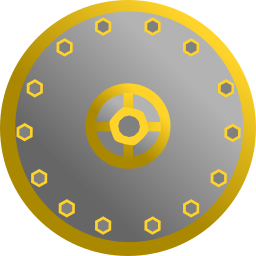
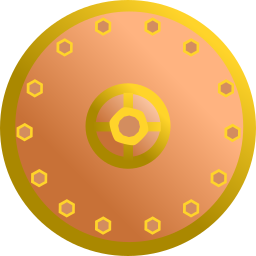
(JustWannaLive) copper textures instead of iron ones

diff --git a/main.py b/main.py
@@ -28,7 +28,7 @@ class RoctorioGameThread:
     self.app.game.step()
     step_end = time.time()
     
-    sps = 1.0 / max(step_end - step_start, 0.00001) # simulation steps per second
+    sps = 1.0 / max(step_end - step_start, 0.0001) # simulation steps per second
     
     self.app.root.ids.tps_meter.text = 'TPS: %.3f\nSPS: %.3f' % (self.app.tps, sps)
     

diff --git a/inventory.py b/inventory.py
@@ -53,5 +53,9 @@ class Inventory(IInventory):
       self.widget.host = self.host.widget
       self.canvas.add_widget(self.widget)
     
+    sum_size = 0
     for stack in self.stacks:
       stack.draw(self.widget)
+      sum_size += stack.size
+    
+    self.widget.opacity = 0.3 if sum_size == 0 else 1
